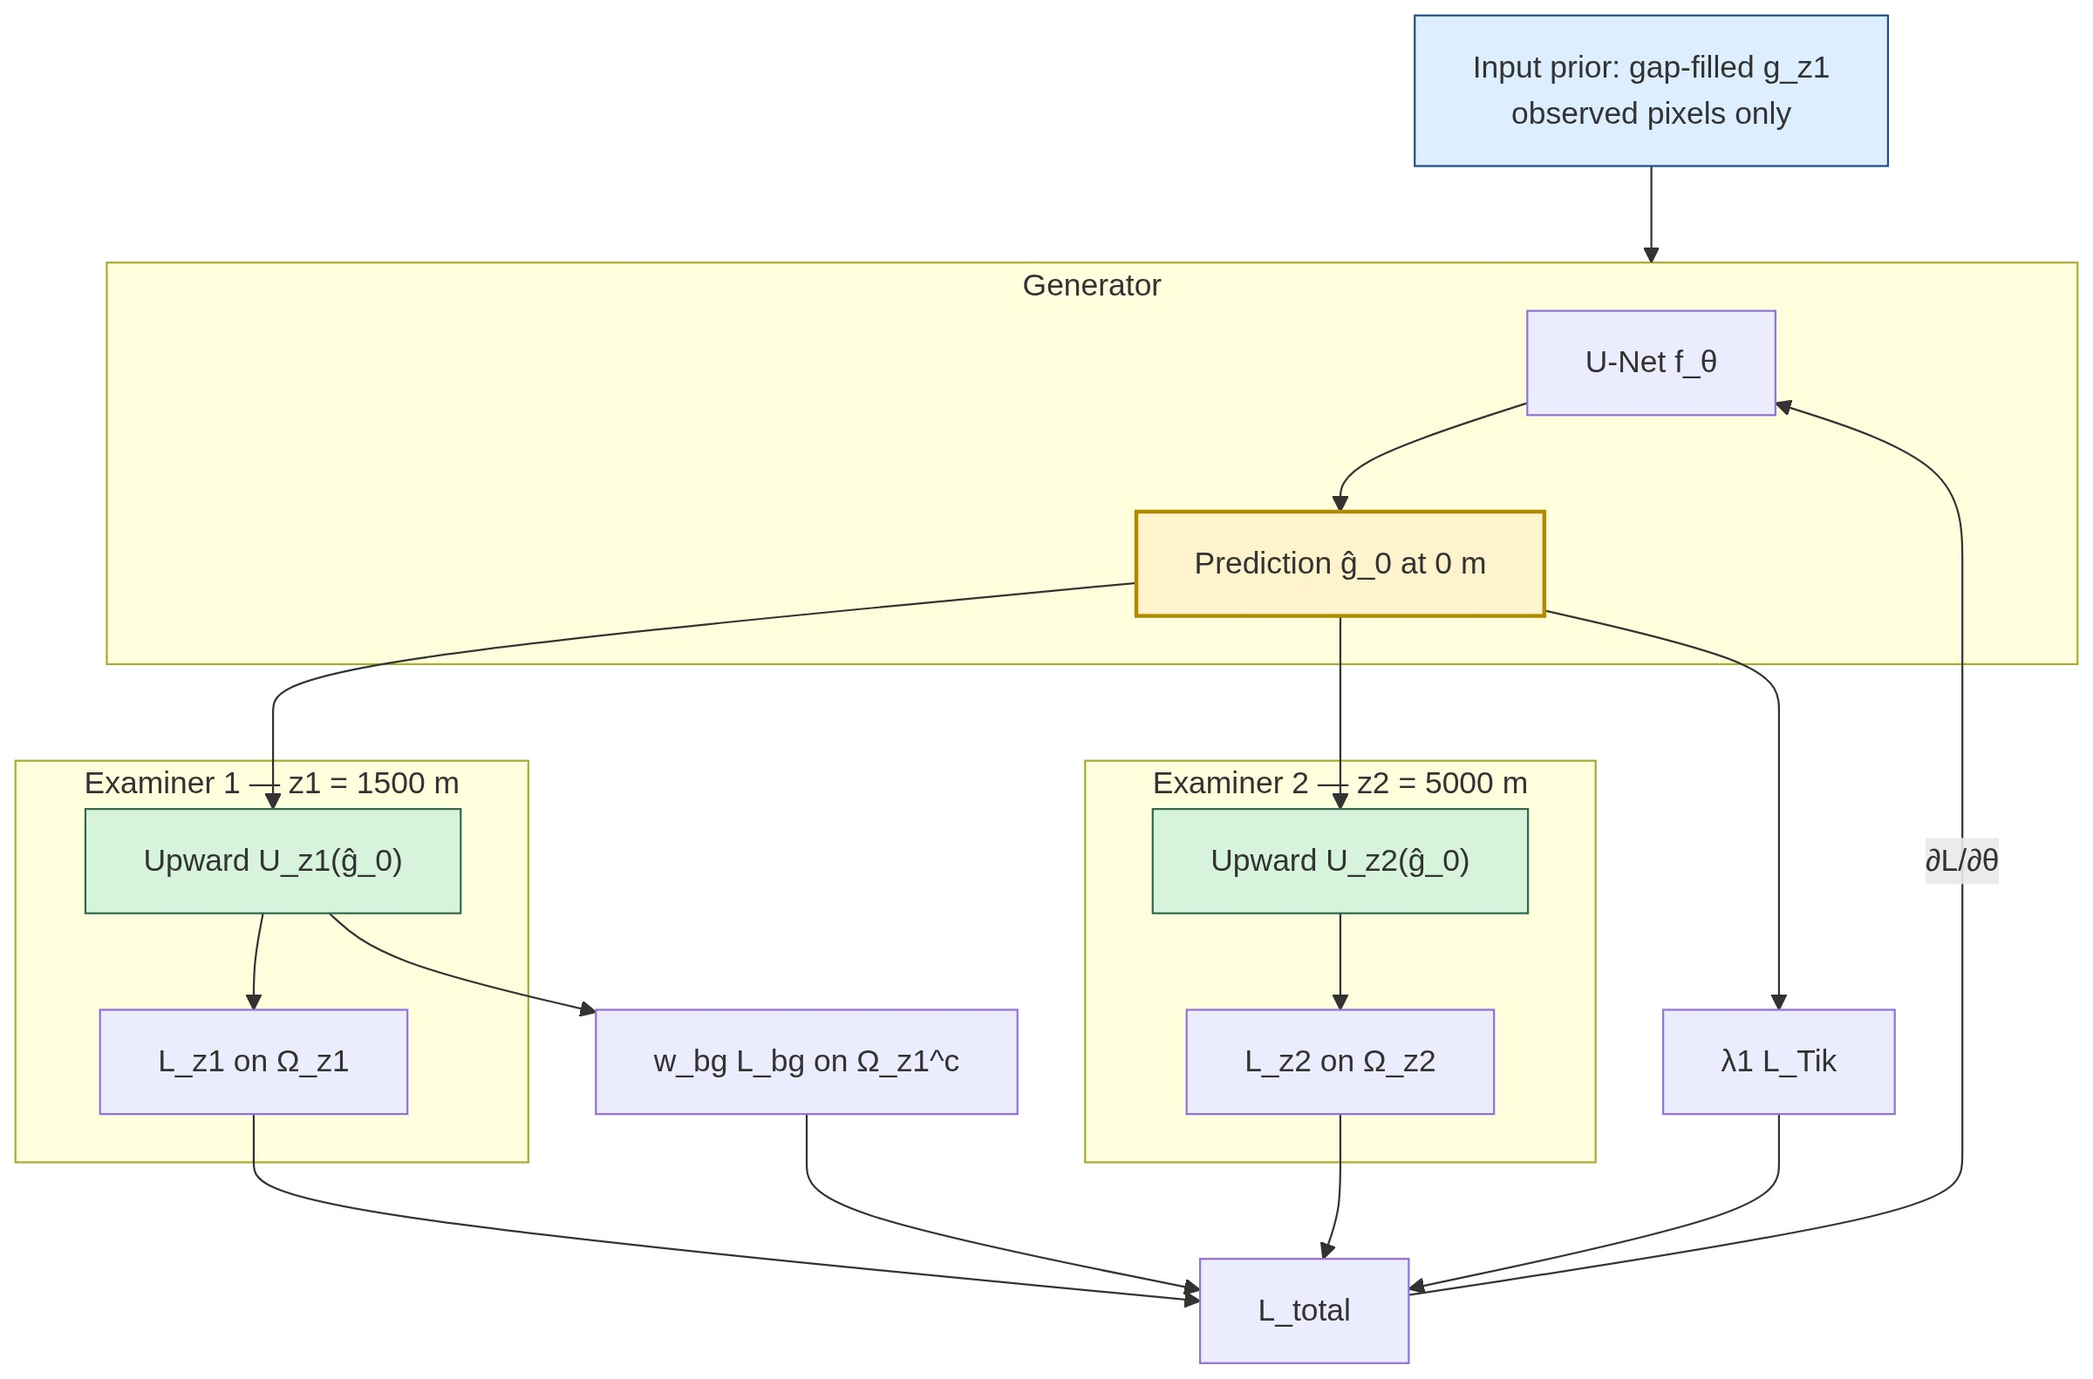
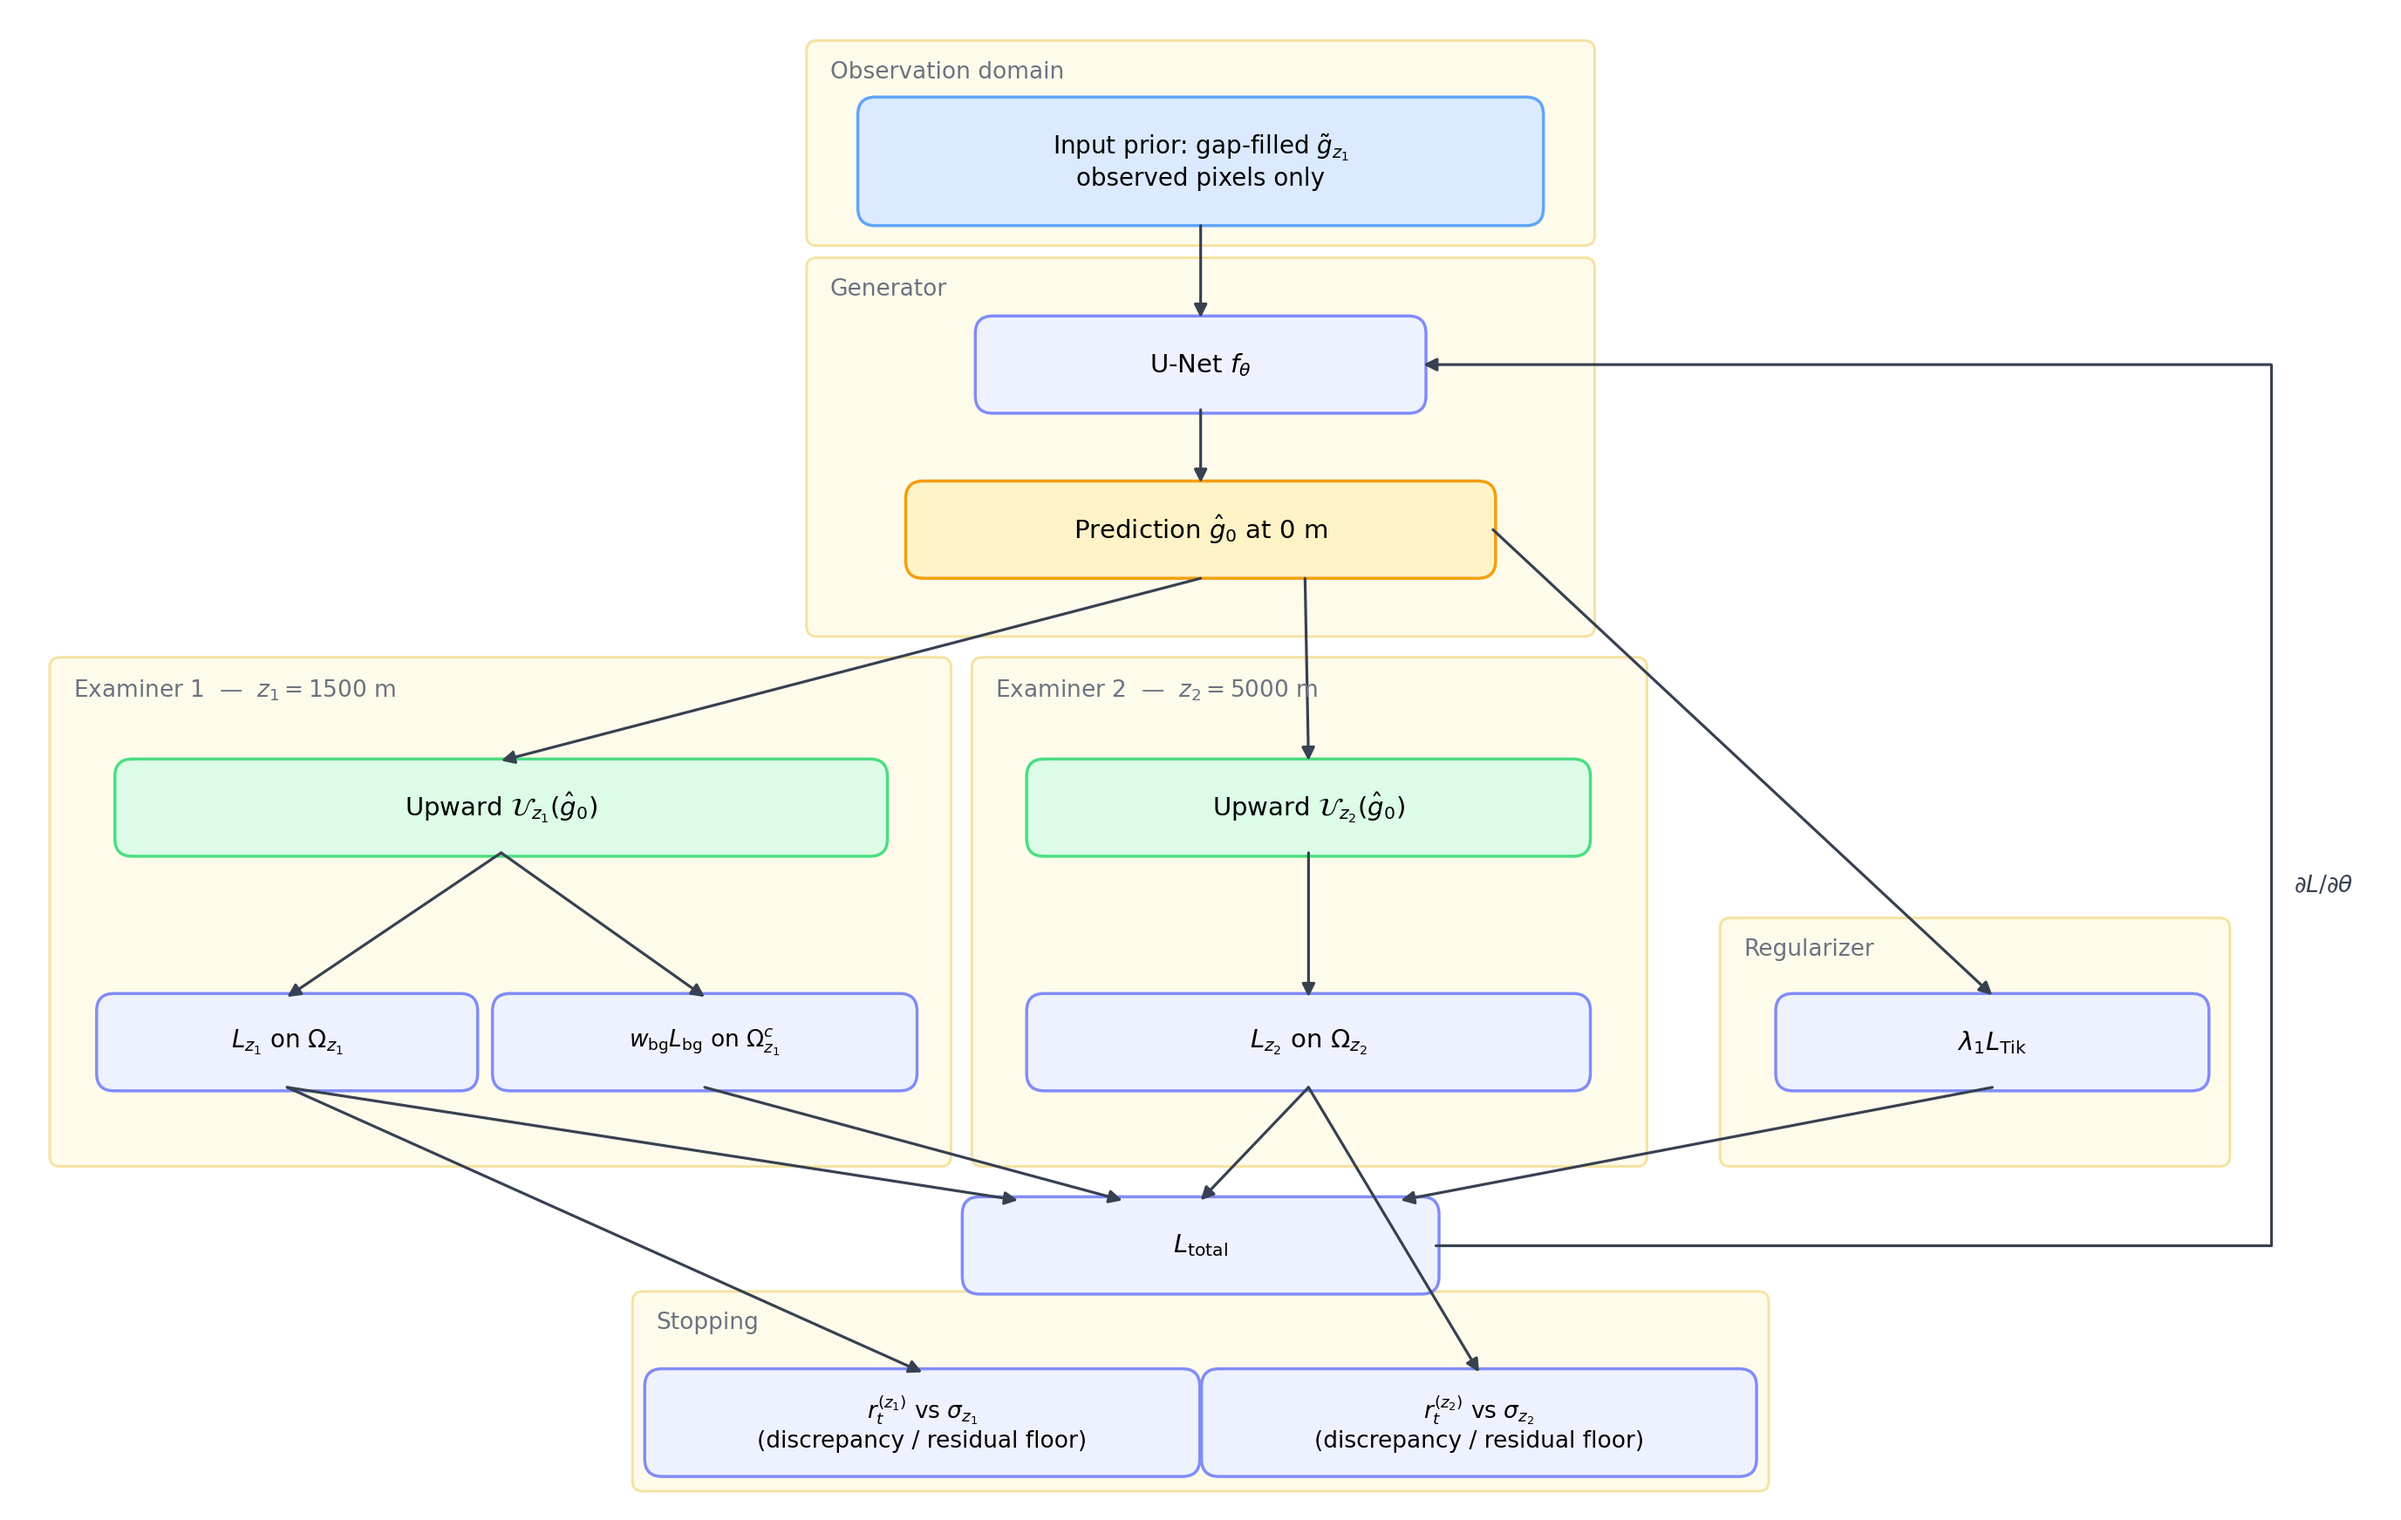
Align published figures and READMEs with the revised JoG manuscript.

diff --git a/README.md b/README.md
@@ -18,7 +18,7 @@ PI-ZSSR trains an untrained U-Net (Deep Image Prior) on a single observation gri
 ├── results/
 │   ├── ch3/             Section 3 (synthetic): tables, metrics, learning curves, summary maps
 │   └── ch4/             Section 4 (Taiwan airborne): metrics, curves, figures
-├── figures/             manuscript Figures 1–21
+├── figures/             manuscript Figures 1–20
 ├── requirements.txt
 └── CITATION.cff
 ```
@@ -89,7 +89,7 @@ The masks reproduce the pixel counts of the paper (R1 = 31941, R2 = 10446, R3 = 
 
 ## Section 4 (Taiwan airborne)
 
-Pipeline and command lines: `results/ch4/4.2_lsc` (RCR, T–R fit, LOO, gridding), `4.3_5156to1620` (labelled 5156 → 1620 m test and σ sensitivity), `4.4_0m_dual` (unobserved 0 m, configurations A and C), `4.5_xgm_egm` (spectral comparison with XGM2019e / EGM2008). The GGM grids and T–R parameters they use are in `data/`; the airborne observations and the LSC grids are not distributed here.
+Pipeline and command lines: `results/ch4/4.2_lsc` (RCR, T–R fit, LOO, gridding), `4.3_5156to1620` (labelled 5156 → 1620 m test and σ sensitivity), `4.4_0m_dual` (unobserved 0 m, configurations A and C), `4.5_xgm_egm` (residual spectra of the 0 m product against XGM2019e / EGM2008; §4.4.1). The GGM grids and T–R parameters they use are in `data/`; the airborne observations and the LSC grids are not distributed here.
 
 ## Data availability
 

diff --git a/results/ch4/4.5_xgm_egm/README.md b/results/ch4/4.5_xgm_egm/README.md
@@ -1,6 +1,6 @@
-# 4.5 Spectral comparison with XGM2019e and EGM2008
+# 4.5 Residual spectra against XGM2019e and EGM2008 (§4.4.1 of the paper)
 
-Native 1′ grid of configuration C. Models interpolated onto those nodes (C is not upsampled to 30″). ROI = 20-px margin; 2-D Hann; full *g* and residual after subtracting EGM *n* ≤ 2000. Not a 0 m truth test.
+Native 1′ grid of configuration C. Models interpolated onto those nodes (C is not upsampled to 30″). ROI = 20-px margin; 2-D Hann. The manuscript uses only the residual comparison (EGM *n* ≤ 2000 subtracted from every field). Not a 0 m truth test.
 
 ## Inputs
 - `real0_C_full_g_h0.xyz`, `real0_A_full_g_h0.xyz` (from Section 4.4)
@@ -19,7 +19,7 @@ python evaluate_xgm2019.py --pred_file ch4/real0_C_full_g_h0.xyz --pred_b ch4/re
 ## Outputs
 | File | Role |
 |---|---|
-| `fig20_full_psd_coh.png` | Figure 20 |
-| `fig20_residual_CA_psd_coh.png` | Figure 21 |
+| `fig20_full_psd_coh.png` | unused in the manuscript (full-field restore comparison) |
+| `fig20_residual_CA_psd_coh.png` | Figure 20 |
 | `fig20_stats.json` | Table 9 numbers |
 | `fig20_full_CA_psd_coh.png`, `fig20_residual_psd_coh.png` | extra panels |

diff --git a/data/README.md b/data/README.md
@@ -11,7 +11,7 @@ All files are plain ASCII `lon lat value` on the 21–26°N, 119–124°E window
 | `TW_EGM_grid_g_d2000_h{0,1620,5156}.xyz` | EGM2008, n ≤ 2000 (RCR reference) | 0 / 1620 / 5156 m | §4.2 remove, §4.4 restore |
 | `TW_EGM_grid_g_res_h{1620,5156}.xyz` | EGM2008, n = 2001–2160 (residual) | 1620 / 5156 m | §4.2 residual comparison, §4.3–4.4 far-field fill |
 | `TW_XGM_grid_g_d2160_h{1620,5156}.xyz` | XGM2019e, n ≤ 2160 | 1620 / 5156 m | §4.1 data check |
-| `TW_XGM_grid_g_d5540_h0.xyz` | XGM2019e, n ≤ 5540 | 0 m | §4.5 spectral comparison |
+| `TW_XGM_grid_g_d5540_h0.xyz` | XGM2019e, n ≤ 5540 | 0 m | §4.4.1 residual-spectrum check |
 
 Heights are ellipsoidal/orthometric as used in the paper (0 m ≈ quasi-geoid). `res` grids are the full-degree grid minus the reference grid at the same height.
 
